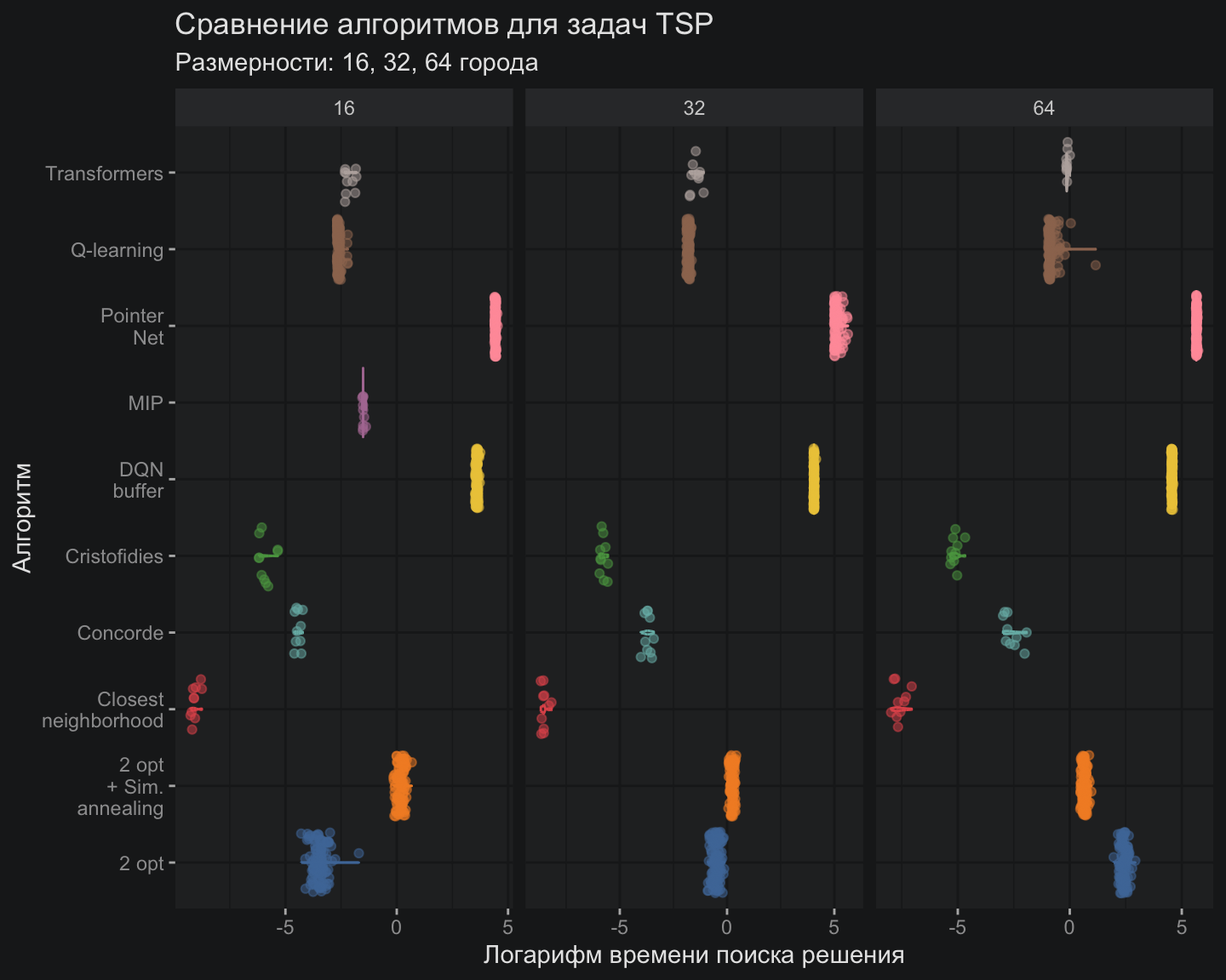
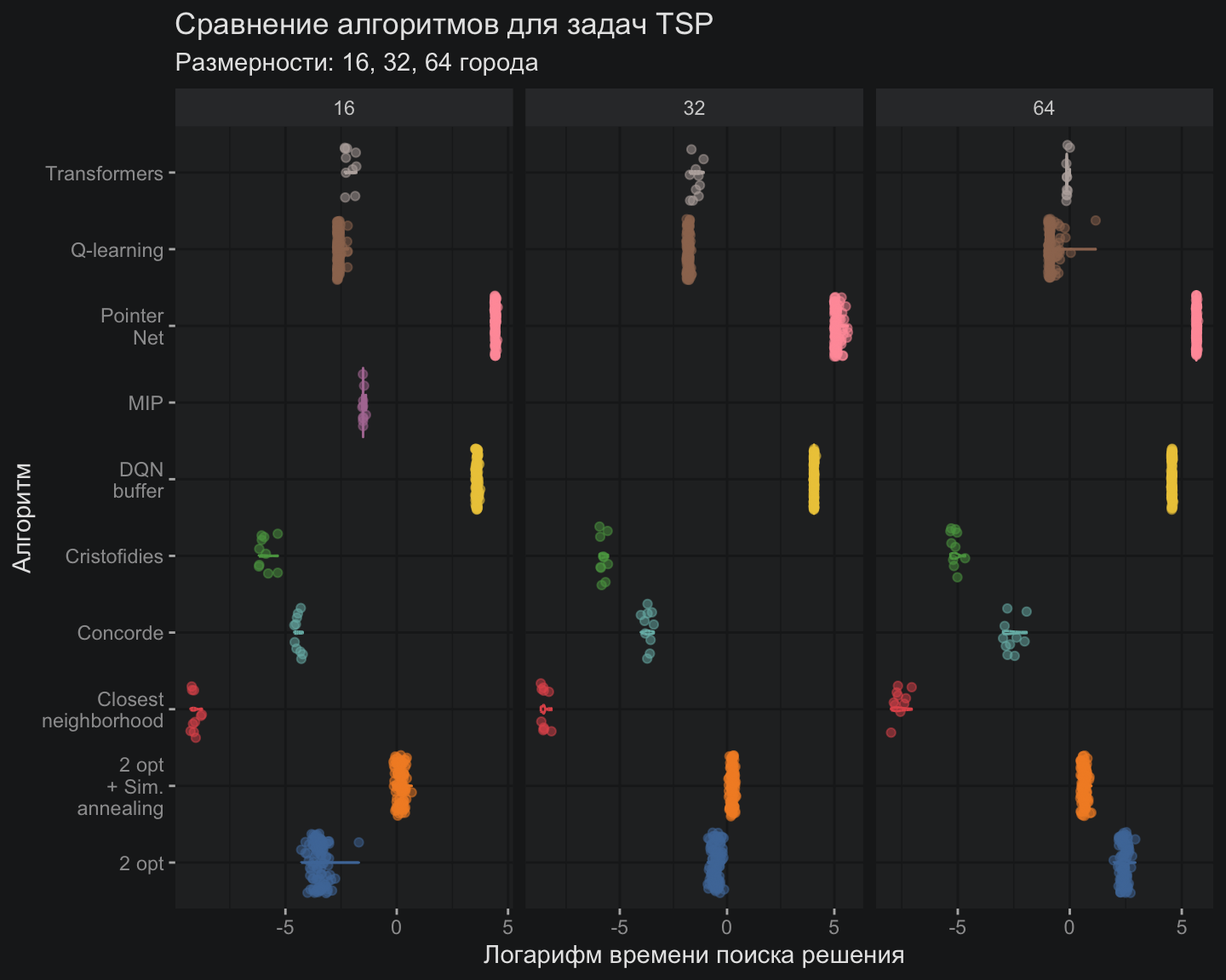
Update transformer notes

diff --git a/content/post/transformers/index.md b/content/post/transformers/index.md
@@ -40,19 +40,19 @@ cover:
 
 ## Архитектура TSP - трансформеров
 
-Несмотря на то, что реализаций задачи TSP на базе трансформеров существует несколько, я бы хотел остановиться на конкретном варианте, который демонстрирует очень приличные результаты. Речь пойдёт про реализацию TSP-трансформеров от [Xavier Bresson](https://arxiv.org/pdf/2103.03012.pdf). Можно сказать, что TSP-трансформеры похожи на **Pointer Network** в том смысле, что за основу берётся архитектура из мира NLP и происходит адаптация такой архитектуры под задачу оптимизации TSP. Поэтому, когда мы говорим про TSP-трансформеры, на фоне мы всегда ощущаем рефрен генеративных нейронных сетей, воплощённых в уже привычных чат-ботах.
+Несмотря на то, что реализаций задачи TSP на базе трансформеров существует несколько, я бы хотел остановиться на конкретном варианте, который демонстрирует очень приличные результаты. Речь пойдёт про реализацию TSP-трансформеров от [Xavier Bresson](https://arxiv.org/pdf/2103.03012.pdf). Можно сказать, что TSP-трансформеры похожи на *Pointer Network* в том смысле, что за основу берётся архитектура из мира NLP (естественной обработки языка) и происходит адаптация такой архитектуры под задачу оптимизации TSP. Поэтому, когда мы говорим про TSP-трансформеры, на фоне мы всегда ощущаем рефрен генеративных нейронных сетей, воплощённых в уже привычных чат-ботах.
 
-Важным отличием трансформеров от архитектуры **Pointer Network** (Encoder + Decoder + Attention) является то, что вместо рекуррентных модулей (LSTM, GRU) используются нейронные сети прямого распространения и *Self-Attention*. Это исключает капризные авторегрессионные процессы. Вместо этого порядок входящих токенов передаётся явным образом — в виде матрицы с использованием позиционного кодирования. Можно сказать, что авторегрессионный процесс остаётся только на уровне главного цикла выбора следующего города (токена).
+Важным отличием трансформеров от архитектуры *Pointer Network* (*Encoder + Decoder + Attention*) является то, что вместо рекуррентных модулей (LSTM, GRU) используются нейронные сети прямого распространения и *Self-Attention*. Это исключает капризные авторегрессионные процессы. Вместо этого порядок входящих токенов передаётся явным образом — в виде матрицы с использованием позиционного кодирования. Можно сказать, что авторегрессионный процесс остаётся только на уровне главного цикла выбора следующего города (токена).
 
 В оригинальной статье архитектура выглядит следующим образом:
 
 ![](./pics/overview.png)
 
-Можно сказать, что предложенная архитектура едва ли отличается от канонического варианта, описанного в [учебниках](https://d2l.ai/chapter_attention-mechanisms-and-transformers/transformer.html). Имеется блок кодировщика (Encoder), который, выражаясь образно, «смотрит» (обобщает) сразу всю задачу целиком. Также имеется декодер (Decoder), который рекурсивно, то есть один за другим, выбирает города для посещения. Каждый раз решение о выборе города принимается на основе сложившегося подмаршрута (смотрим пройденный путь) и доступных для выбора городов, информация о которых обогащается кодировщиком через механизм внимания. Каждый по отдельности кодировщик и декодер представляют собой слоёный пирог, состоящий из чередующихся модулей вычислений: модуля внимания, модуля нейронных сетей прямого распространения и модуля нормализации коэффициентов. Далее предлагаю разобрать каждый блок по отдельности.
+Можно сказать, что предложенная архитектура едва ли отличается от канонического варианта, описанного в [учебниках](https://d2l.ai/chapter_attention-mechanisms-and-transformers/transformer.html). Имеется блок кодировщика (*Encoder*), который, выражаясь образно, «смотрит» (обобщает) сразу всю задачу целиком. Также имеется декодер (*Decoder*), который рекурсивно, то есть один за другим, выбирает города для посещения. Каждый раз решение о выборе города принимается на основе сложившегося подмаршрута (смотрим пройденный путь) и доступных для выбора городов, информация о которых обогащается кодировщиком через механизм внимания. Каждый по отдельности кодировщик и декодер представляют собой слоёный пирог, состоящий из чередующихся модулей вычислений: модуля внимания, модуля нейронных сетей прямого распространения и модуля нормализации коэффициентов. Далее предлагаю разобрать каждый блок по отдельности.
 
-### Кодировщик (Encoder)
+### Кодировщик (*Encoder*)
 
-Кодировщик (Encoder) получает на вход сразу все координаты городов, планируемых для посещения коммивояжером, и  транслирует координаты в свое представление с использованием *Self-Attention* механизма. Это означает, что ключи (*keys*), значения (*values*), и запросы (*queries*) -- это все один и тот же тензор эмбединга координат городов. На выходе получаем представление, которое содержит информацию о соотнесении координат городов друг к другу. Слои между между собой связываются через *residual connection*, для улучшения процесса обучения применяются модули *Batch normalization*. Формальная математика следующая:
+Кодировщик (*Encoder*) получает на вход сразу все координаты городов, планируемых для посещения коммивояжером, и  транслирует координаты в свое представление с использованием *Self-Attention* механизма. Это означает, что ключи (*keys*), значения (*values*), и запросы (*queries*) -- это все один и тот же тензор эмбединга координат городов. На выходе получаем представление, которое содержит информацию о соотнесении координат городов друг к другу. Слои между между собой связываются через *Residual connection*, для улучшения процесса обучения применяются модули *Batch normalization*. Формальная математика следующая:
 
 $$
 H^{\text {enc}} =H^{\ell=L^{\text {enc }}} \in \mathbb{R}^{(n+1) \times d}
@@ -79,21 +79,21 @@ $$
 
 ![](./pics/encoder.png)
 
-### Декодер (Decoder)
+### Декодер (*Decoder*)
 
-На вход декодера (Decoder) мы подаём координаты уже выбранных городов (подмаршрутов) для выбора следующего города. То есть процесс выбора города авторегрессионный: выбрали город — и думаем над тем, какой выбрать следующий. Декодер также имеет на входе слой *Self-Attention*, аналогичный кодировщику, но на вход декодеру подаётся подмаршрут (промежуточный путь).
+На вход декодера (*Decoder*) мы подаём координаты уже выбранных городов (подмаршрутов) для выбора следующего города. То есть процесс выбора города авторегрессионный: выбрали город — и думаем над тем, какой выбрать следующий. Декодер также имеет на входе слой *Self-Attention*, аналогичный кодировщику, но на вход декодеру подаётся подмаршрут (промежуточный путь).
 
 Далее, поднимаясь выше по диаграмме, можно обнаружить слой, который обеспечивает перенос представления из кодировщика на контекст декодера: ключи и значения кодировщика подаются на слой внимания, а запросом служит выход с предыдущего слоя декодера. Данная логика соответствует канонической архитектуре трансформеров.
 
 Однако выше присутствует уже оригинальный слой механизма внимания, который нужен для перевода тензора из размерности эмбединга в тензор размерности задачи поиска пути, что даёт на выходе распределение вероятности по непосещённым городам (NLP-трансформеры используют в этом месте нейронную сеть прямого распространения). В этом слое происходит нечто большее, чем просто изменение размерности: также подмешивается информация из кодировщика через всё те же ключи и значения.
 
-Слои в декодере связываются между собой также через *residual connection*, но в отличие от кодировщика тут используется *Layer normalization*.
+Слои в декодере связываются между собой также через *Residual connection*, но в отличие от кодировщика тут используется *Layer normalization*.
 
 В самом начале, очевидно, предыдущих городов нет, и поэтому нужно выбрать некий дополнительный город-призрак, который в перспективе будет оптимальным с точки зрения конечной задачи поиска кратчайшего пути. Координаты такого города выбираются из результата работы кодировщика:  
 $$
 h_{t=0}^{\mathrm{dec}}=h_{\mathrm{start}}^{\mathrm{dec}}+\mathrm{PE}_{t=0} \in \mathbb{R}^d, \text { with } h_{\mathrm{start}}^{\mathrm{dec}}=h_{\mathrm{z}}^{\mathrm{enc}}
 $$
-Разберём работу декодера по шагам. Представим, что первые tt городов уже декодированы и выбраны, то есть уже имеется какой-то подмаршрут:
+Разберём работу декодера по шагам. Представим, что первые \[t\] городов уже декодированы и выбраны, то есть уже имеется какой-то подмаршрут:
 
 1. Стартуем декодирование с тензора, который был получен на предыдущем шаге. Кодируем такой тензор с помощью [стандартного кодировщика позиции](https://d2l.ai/chapter_attention-mechanisms-and-transformers/self-attention-and-positional-encoding.html) \[PE_t\]. 
 $$
@@ -115,7 +115,7 @@ $$
 
 ![](./pics/decoder1.png)
 
-2. Кодируем результат предыдущего шага с помощью функции *self-attention*:
+2. Кодируем результат предыдущего шага с помощью функции *Self-Attention*:
 
 $$
 \hat{h}_t^{\ell+1} =\text{softmax}\(\frac{q^{\ell} K^{\ell^2}}{\sqrt{d}}\) V^{\ell} \\in \mathbb{R}^d, \ell=0, \ldots, L^{\text {dec }}-1
@@ -154,7 +154,7 @@ $$
 
 ![](./pics/decoder4.png)
 
-Таким образом, получается архитектура, содержащая лишь один авторегрессионный процесс, что повышает стабильность и скорость обучения за счёт параллельных вычислений. Идея выкорчевывания от авторегрессионных процессов настолько сильна, что существует [дальнейшее развитие](https://towardsdatascience.com/transpormer-a-transformer-network-for-the-travelling-salesman-problem-154bd33c37b0/) этой концепции с полным исключением данного элемента из архитектуры. Такая реализация даёт ещё больший прирост в скорости вычислений, но не гарантирует наличие цикла в графе маршрута. Это означает необходимость постобработки результатов трансформеров с поиском оптимальной линковки некоторых вершин — нечто вроде описанного в заметке про алгоритм [Cristofides]().
+Таким образом, получается архитектура, содержащая лишь один авторегрессионный процесс, что повышает стабильность и скорость обучения за счёт параллельных вычислений. Идея выкорчевывания авторегрессионных процессов настолько сильна, что существует [дальнейшее развитие](https://towardsdatascience.com/transpormer-a-transformer-network-for-the-travelling-salesman-problem-154bd33c37b0/) этой концепции с полным исключением данного элемента из архитектуры. Такая реализация даёт ещё больший прирост в скорости вычислений, но не гарантирует наличие цикла в графе маршрута. Это означает необходимость постобработки результатов трансформеров с поиском оптимальной линковки некоторых вершин — нечто вроде описанного в заметке про алгоритм [Cristofides](/post/algoritm_kristofidesa_serdukova).
 
 
 ### Сравнение с NLP
@@ -191,7 +191,7 @@ $$
 
 Эта ситуация полностью повторилась и для TSP-трансформеров. Очевидно, что приоритетом является работа с GPU, поскольку она даёт значительный прирост в скорости вычислений.
 
-На этот раз я потратил значительно больше времени, чтобы разобраться в причинах такого эффекта. Я настойчиво мучил ChatGPT с разных сторон и, конечно, адресовал вопрос в [Telegram-сообщество R](t.me/rlang_ru). Коллективный разум предложил обновить R Torch до последней версии, а ChatGPT выдал следующую подробную таблицу сравнения:
+На этот раз я потратил значительно больше времени, чтобы разобраться в причинах такого эффекта. Я настойчиво помучал ChatGPT с разных сторон и, конечно, адресовал вопрос в [Telegram-сообщество R](t.me/rlang_ru). Коллективный разум предложил обновить R Torch до последней версии, а ChatGPT выдал следующую подробную таблицу сравнения:
 
 | **Функция**                        | **PyTorch (Python)**                      | **R Torch (R)**                         |
 | ---------------------------------- | ----------------------------------------- | --------------------------------------- |
@@ -213,9 +213,9 @@ $$
 
 <img src="{{< blogdown/postref >}}index_files/figure-html/unnamed-chunk-1-1.png" width="720" />
 
-Поскольку TSP-трансформер обучался лишь один раз, в отличие от других моделей, сравнивать скорость вычислений напрямую было бы некорректно. Также следует учитывать особенности реализации на R, которая показала слабые результаты при вычислениях на GPU.
+Поскольку TSP-трансформер обучался лишь один раз сразу для всех задач, в отличие от других моделей, сравнивать скорость вычислений напрямую было бы некорректно. Также следует учитывать особенности реализации на R, которая показала слабые результаты при вычислениях на GPU.
 
-По совокупности этих причин в сравнительную диаграмму я добавил время инференса TSP-трансформера, которое сопоставимо со временем обучения классических моделей, таких как *2-opt* и модель имитации отжига.
+По совокупности этих причин в сравнительную диаграмму я добавил время инференса TSP-трансформера, которое сопоставимо со временем обучения классических моделей, таких как *2-opt* и модели имитации отжига.
 
 <img src="{{< blogdown/postref >}}index_files/figure-html/unnamed-chunk-2-1.png" width="720" />
 
@@ -225,9 +225,9 @@ $$
 
 Теперь можно подвести некоторые итоги и констатировать, что трансформер умеют не только в текст и изображение, но **и в оптимизацию тоже умеют неплохо**. Это наталкивает на мысль о возможности скормить трансформерам широкий класс мультимодальных бизнес-задач. 
 
-Действительно, почему бы вместо условно отдельных систем: прогнозирования спроса, планирования, оптимизации ценообразования и производства, наконец оценки рисков, - не реализовать одну систему, способную одновременно прогнозировать и учитывать вероятностную природу прогноза (риски) при формировании оптимального плана? Безусловно, речь идет лишь о начальной фазе длинного пути трансформации бизнес-приложений в направлении внедрения оптимизаторов на базе ИИ, но уже сейчас перспективы выглядят крайне заманчиво. 
+Действительно, почему бы вместо условно отдельных систем: прогнозирования спроса, планирования, оптимизации ценообразования и производства, наконец оценки рисков, -- не реализовать одну систему, способную одновременно прогнозировать и учитывать вероятностную природу прогноза (риски) при формировании оптимального плана? Безусловно, речь идет лишь о начальной фазе длинного пути трансформации бизнес-приложений в направлении внедрения оптимизаторов на базе ИИ, но уже сейчас перспективы выглядят крайне заманчиво. 
 
-В настоящее время уже существуют реализации архитектуры трансформеров для популярных проблем оптимизации: Vehicle Routing Problem (VRP), Dial-a-Ride Problem (DARP), Job Shop Scheduling Problem (JSSP). Впрочем настоящий качественный прорыв, верю, произойдет когда постановка задач оптимизации будет адаптирована под возможности оптимизаторов на базе трансформеров. Думаю, данная область будет развиваться стремительно, но посмотрим. 
+В настоящее время уже существуют реализации архитектуры трансформеров для популярных проблем оптимизации: Vehicle Routing Problem (VRP), Dial-a-Ride Problem (DARP), Job Shop Scheduling Problem (JSSP). Впрочем настоящий качественный прорыв, верю, произойдет когда постановка задач оптимизации будет адаптирована под возможности оптимизаторов на базе трансформеров. Думаю, данная область будет развиваться стремительно. На этом прекращаю свои вангования о прекрасном будущем.  
 
 ### Что дальше? 
 
@@ -239,7 +239,7 @@ $$
 
 3. Наконец, если компания из реального сектора готова тестировать и запускать новые, более эффективные, модели управления процессами на базе технологий ИИ, в этом случае можно говорить о совместной проектной работе в формате лаборатории по адаптации технологий ИИ к имеющимся задачам. 
 
-На этом я хотел бы поставить не точку, а многоточие — и, возможно, продолжит эту серию заметок уже в контексте более прикладных, менее академических, но более боевых задач.  
+На этом я хотел бы поставить не точку, а многоточие — и, возможно, продолжить эту серию заметок уже в контексте более прикладных, менее академических, но более боевых задач.   
 
 ---
 
